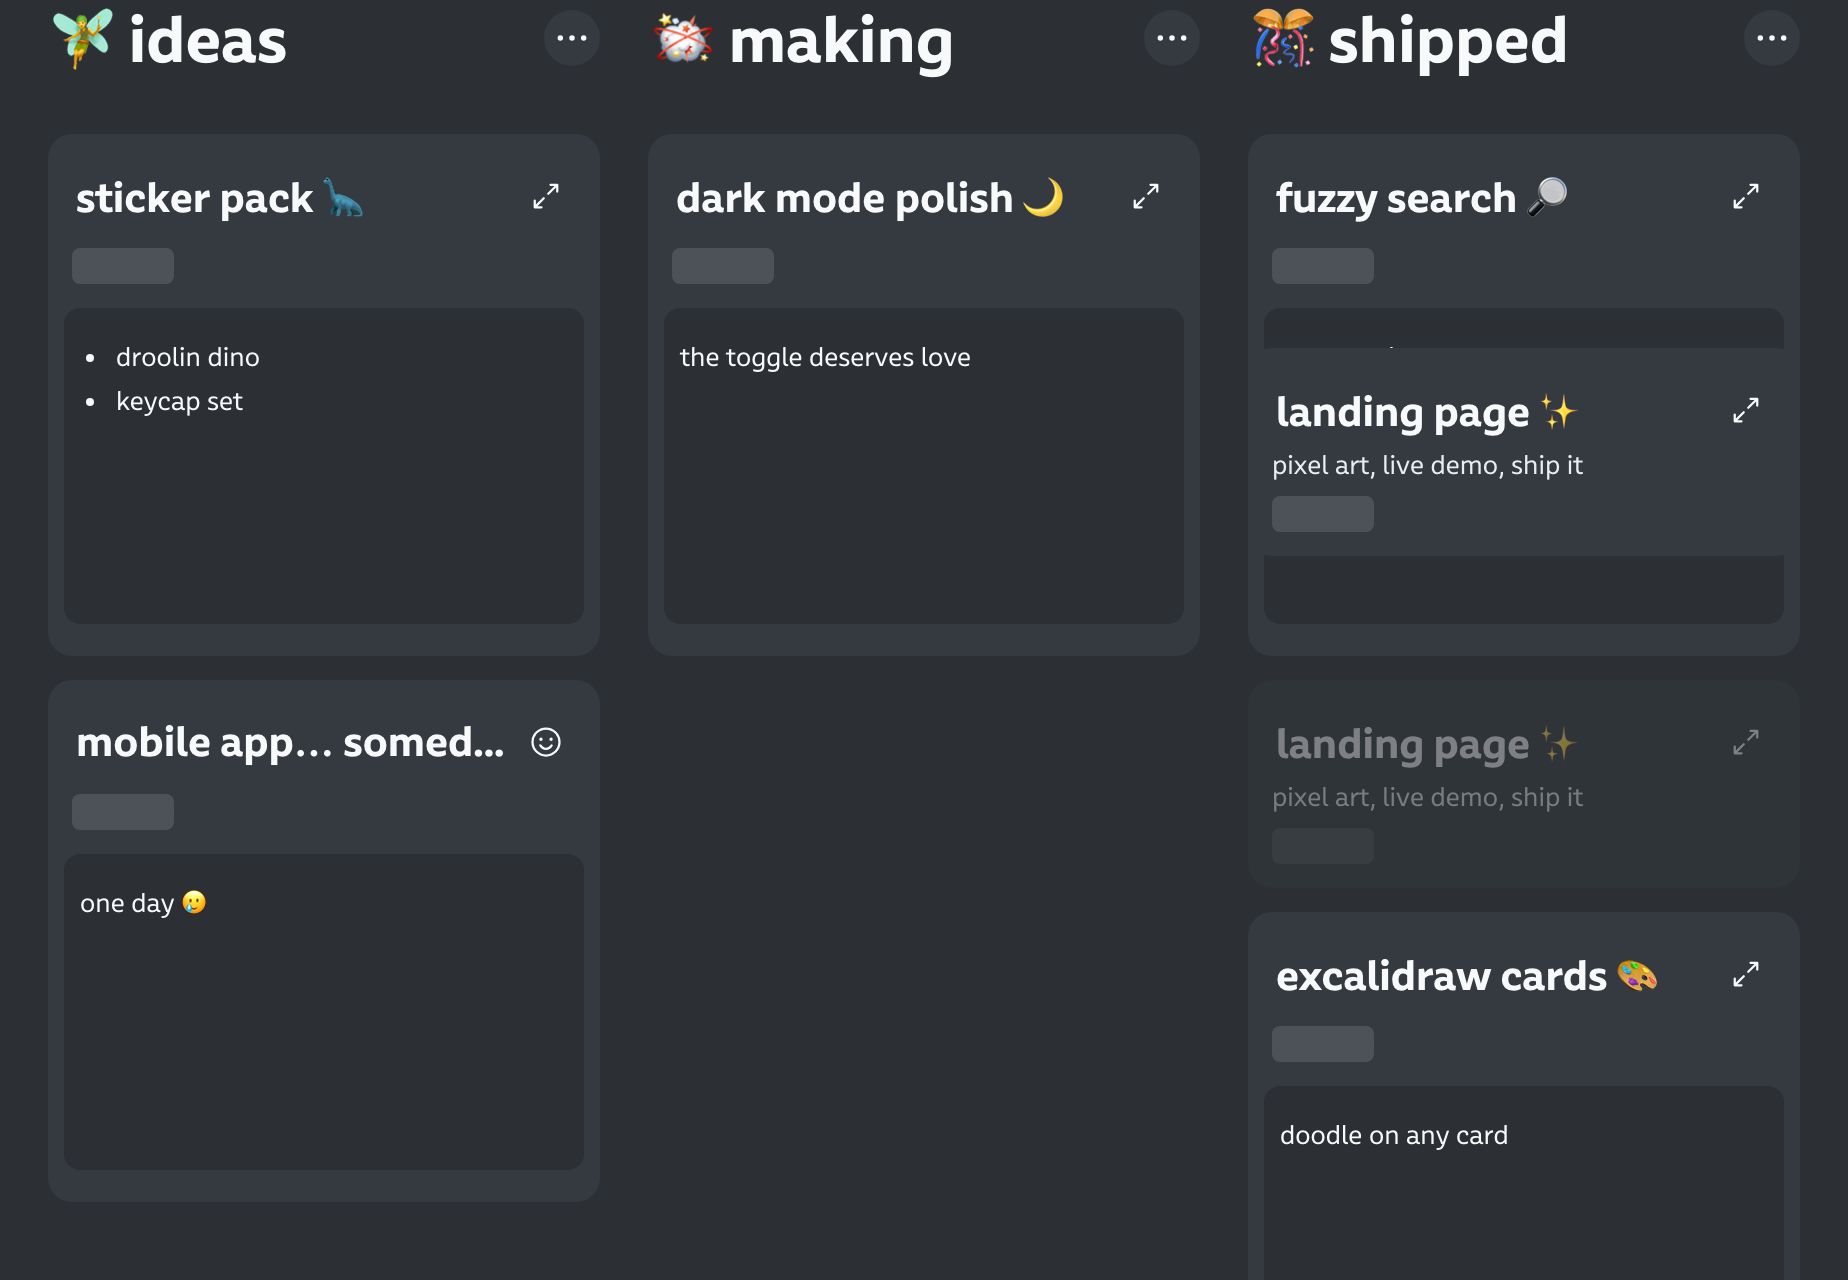
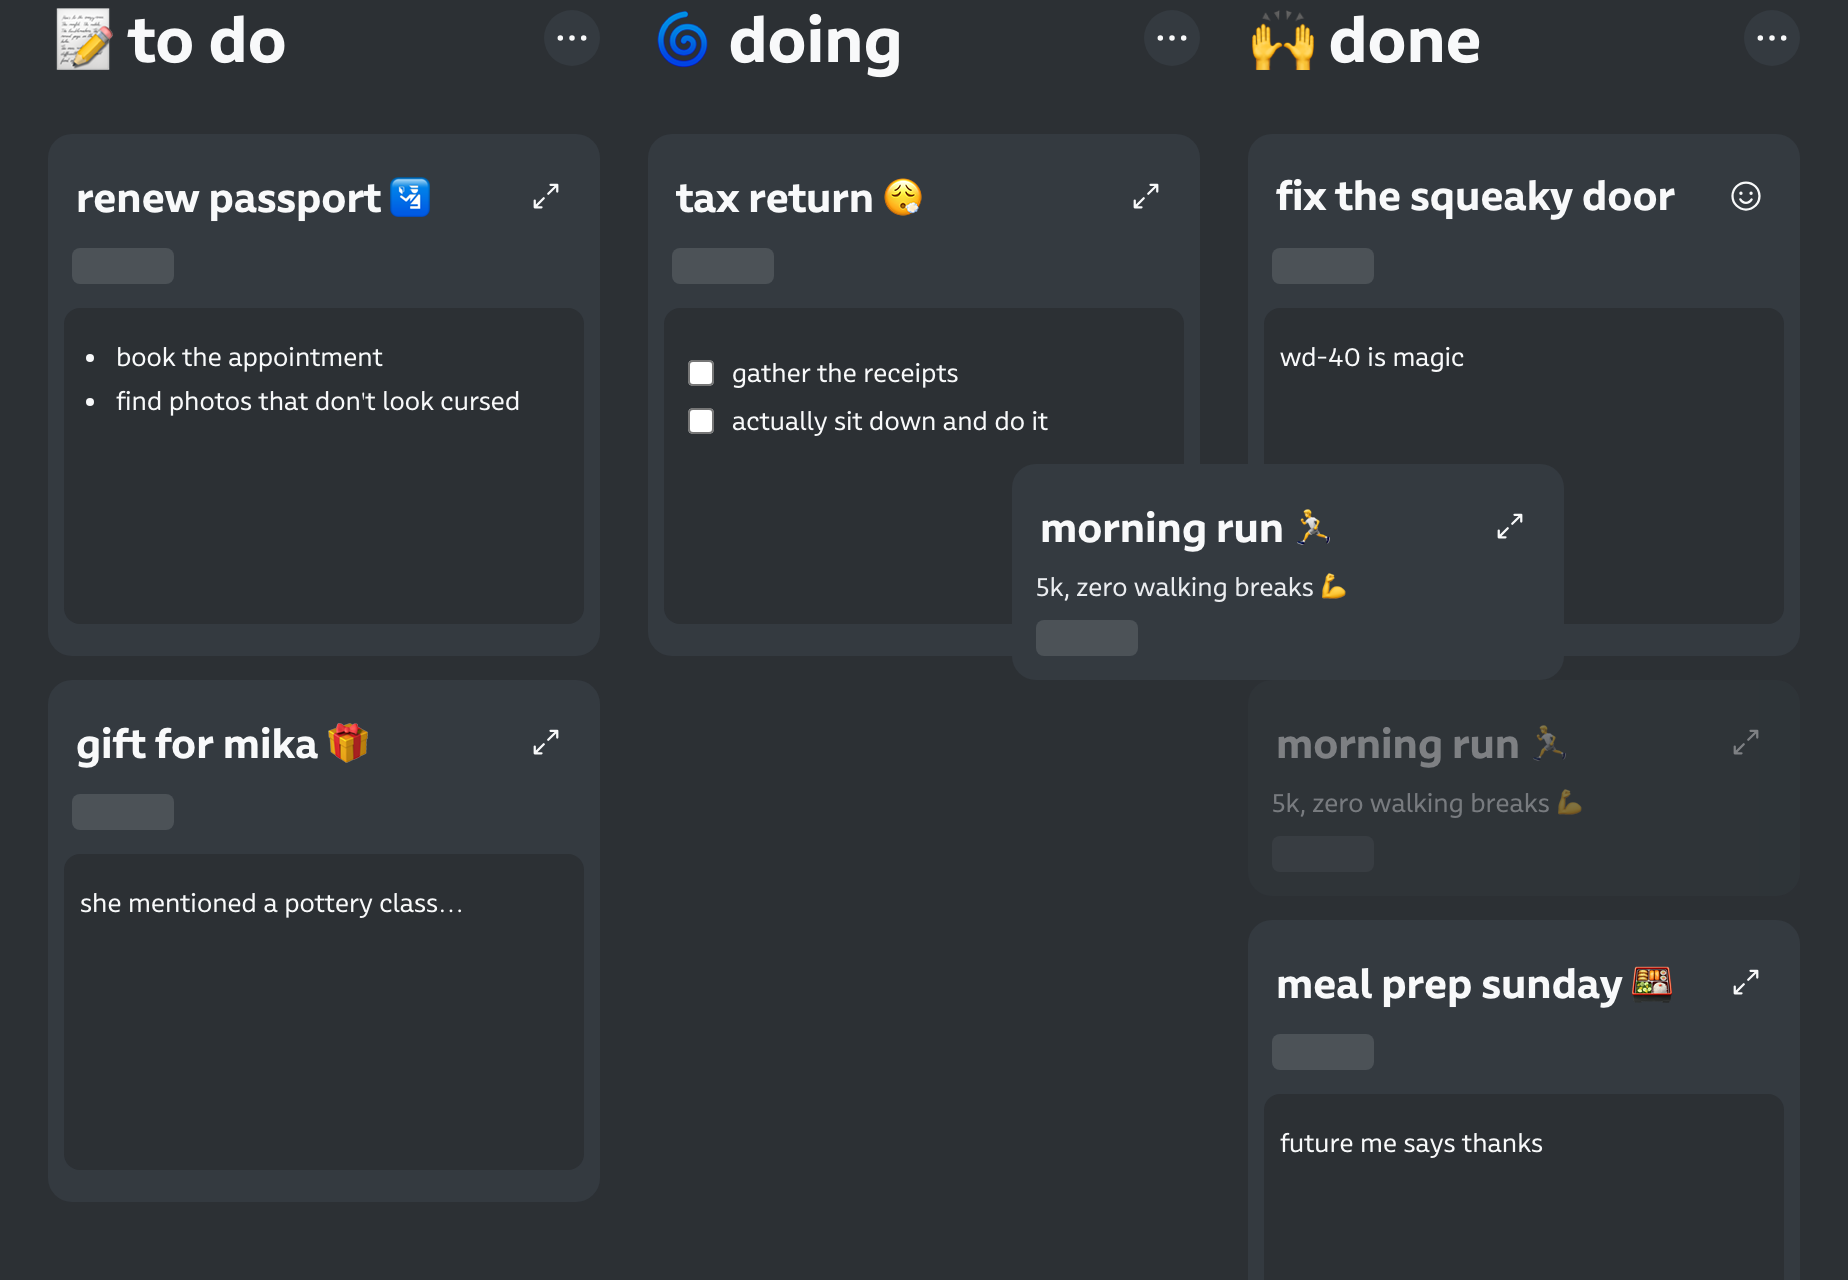
feat: hero demo video and relatable drag screenshot

diff --git a/landing/index.html b/landing/index.html
@@ -251,7 +251,7 @@
             overflow: hidden;
         }
         .demo-body { background: #2c3034; }
-        .demo-body img { display: block; width: 100%; height: auto; }
+        .demo-body video { display: block; width: 100%; height: auto; }
         .demo-hint { text-align: center; margin-top: 22px; }
 
         .ground {
@@ -432,10 +432,12 @@
                         <span class="url">⌂ newtab / tapmytab</span>
                     </div>
                     <div class="demo-body">
-                        <img src="./img/demo-cover.png" alt="the tapmytab default board: TODO, Doing, Trip to Japan and Sketches columns with starter cards" />
+                        <video autoplay muted loop playsinline poster="./img/demo-cover.png" aria-label="demo: dragging cards between boards, adding a card, fuzzy search and the drawing editor">
+                            <source src="./img/demo.mp4" type="video/mp4" />
+                        </video>
                     </div>
                 </div>
-                <p class="note demo-hint">↑ every new tab opens straight into this. no setup, no account.</p>
+                <p class="note demo-hint">↑ drag cards around, jot things down, find them later. that's the whole pitch.</p>
             </div>
         </div>
         <div class="stamp" style="bottom: -6px; left: 9%; transform: rotate(-4deg)">